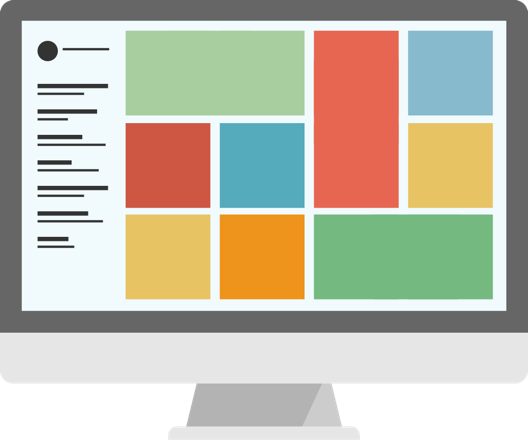
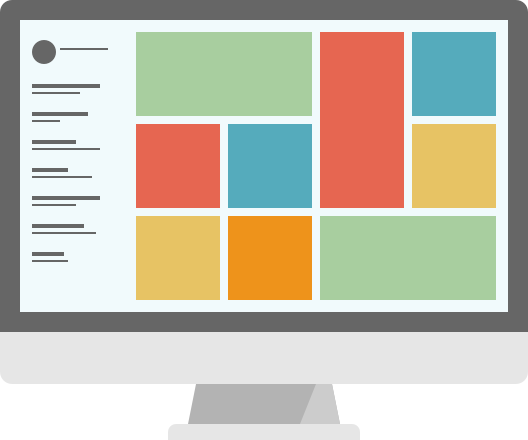
Update images and slight layout tweaks for home page

Changed region(s): [[0.0303, 0.0295, 0.9697, 0.7091], [0.3333, 0.8568, 0.6667, 0.975]]

diff --git a/src/styles/components/_services.scss b/src/styles/components/_services.scss
@@ -20,9 +20,10 @@
     display: block;
     margin-bottom: 6px;
     text-align: center;
+    padding: 12px 0;
 
     img {
-      width: 100%;
+      max-width: 100%;
       vertical-align: middle;
     }
   }
@@ -56,7 +57,7 @@
 @media (min-width: 500px) and (max-width: 700px) {
   .services--container-image {
     img {
-      width: 70% !important;
+      max-width: 70% !important;
     }
   }
 }

diff --git a/src/styles/defaults/_base.scss b/src/styles/defaults/_base.scss
@@ -50,7 +50,7 @@ a {
 }
 
 .minor {
-  font-size: 0.75rem;      // 12px
+  font-size: 1rem;      // 12px
   line-height: 1.5;        // 18px
   margin-bottom: 1.125rem; // 18px
 }

diff --git a/src/services/strategy.md b/src/services/strategy.md
@@ -2,6 +2,6 @@
 title: Strategy
 name: Strategy
 description: Our development and project management teams integrate with the client to collaboratively define project goals, features, and scope. We are involved in every aspect of planning and strategy. We make sure we understand the “Why?” behind what we build.
-image: ../images/illustrations/services-strategy@2x.png
+image: ../images/illustrations/services-strategy.png
 template: partials/service.ejs
 ---

diff --git a/src/services/development.md b/src/services/development.md
@@ -2,6 +2,6 @@
 title: Development
 name: Development
 description: Our developers are a part of your team from the beginning of project planning so they can move fast and deliver an awesome product. We utilize the latest technologies to provide server-side and client-side solutions for our clients.
-image: ../images/illustrations/services-development@2x.png
+image: ../images/illustrations/services-development.png
 template: partials/service.ejs
 ---

diff --git a/src/services/design.md b/src/services/design.md
@@ -2,6 +2,6 @@
 title: Design
 name: Design
 description: User experience is everything. We validate our designs through extensive user testing and experimentation before development.Through user testing and research, we design elegant user experiences for the features we're building.
-image: ../images/illustrations/services-design@2x.png
+image: ../images/illustrations/services-design.png
 template: partials/service.ejs
 ---
